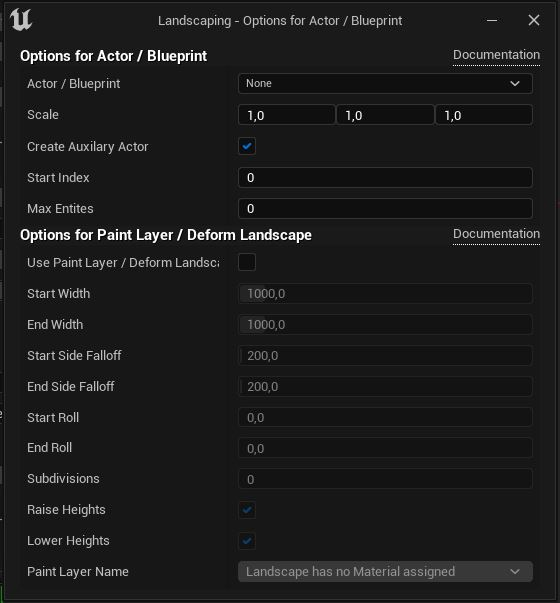
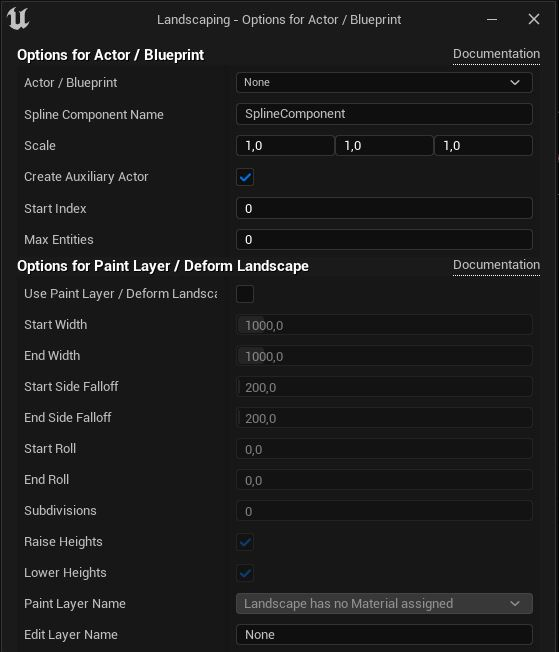
changes for 7.13 and 7.14

Changed region(s): [[0.0, 0.0, 1.0, 1.0], [0.4258, 0.4776, 0.517, 0.6567], [0.4258, 0.6866, 0.4866, 0.7463]]

diff --git a/docs/heights.md b/docs/heights.md
@@ -9,7 +9,7 @@ Making a huge tiled landscape is as easy as making a single landscape.
 > To reset the input simply close the Landscaping tab and open it again.  
 
 In order to create a tiled landscape, you can choose one or multiple files in the file selection dialog.  
-In UE5 it is possible to choose [World Partition](#world-partition) and specify the grid size. (UE4: Depending on the `Max Desired Tile Size`, the tiles for the landscape will be created on the fly.)  
+In UE5 it is possible to choose [World Partition](#world-partition) and specify the grid size to segment a Landscape into LandscapeStreamingProxies. Depending on the `Max Desired Tile Size`, the tiles for the landscape will be created on the fly.  
 
 > A tiled landscape can be created from a single file or from multiple files
 
@@ -48,7 +48,11 @@ Back in Unreal Engine Editor paste the coordinates (Ctrl+V) in the `Corners as B
 
 The info text should now show the new extent of the area. Only this part of the heightdata will be imported.
 
-## Override Z Scale of generated Landscape
+## Location and Scale
+
+### Location
+
+The X and Y Location of the Landscape (first Tile, if multiple tiles are generated). The pivot of a Landscape is on the top-left corner. With `Center` the Landscape is positioned, so that it is centered in the UE coordinate system. If X and Y are set to 0, the Landscape will expand from 0 to the bottom and to the right.
 
 ### High Detail Z Scale
 
@@ -58,21 +62,39 @@ The vertical scale will be calculated automatically to perserve the most detail,
 
 Use this for areas with low altitude difference or when extending or updating the landscape. Defaults to `100`. For understanding the technical reason for this, please consult [Calculating Heightmap Z Scale](https://docs.unrealengine.com/5.1/en-US/landscape-technical-guide-in-unreal-engine/).  
 
-### Import as Mesh
+## Landscape Generation Options
 
-> Only available in Unreal Engine 5  
+### Import as Mesh
 
 Import as Procedural Mesh instead of Landscape (e.g. for a distance mesh). The Procedural Mesh can afterwards converted to a nanite mesh with a button in the details panel of the Procedural Mesh.
 
 ### Force square Landscapes
 
-> Only available in Unreal Engine 5  
+Regardles of the selection, force a square landscape. This enables to export/import weightmaps in the native UE Landscape Edit Mode (e.g. for editing weightmaps in another program) This is not affecting the real world scale (blank areas will appear, but no distortion will happen).
 
-Regardles of the selection, force a square landscape. This enables to export/import weightmaps in the native UE Landscape Edit Mode (e.g. for editing weightmaps in another program)
+### Auto calculate Landscape
 
-### Desired Max Landscape Size
+Calculate Sections and Components of the Landscape to import automatically given the extents of the input file. Uncheck to give custom specs (see properties below). This is not affecting the real world scale.
 
-The maximum size of a created Landscape of World Partition or single Landscape imports in meter. If the size of a single Landscape exceeds this size, it will be split, and multiple Landscape Actors are created in the level. This is the size of the resulting Landscape in Unreal Engine, not the max size or resolution of a source file (like GeoTiff, etc.). E.g. a value of 32768 will import landscapes with maximum 32 km length or width. 32768 will need at least 128 GB of RAM.
+### Section Size
+
+Please see [Landscape Technical Guide](https://docs.unrealengine.com/5.2/en-US/landscape-technical-guide-in-unreal-engine/)
+
+### Sections per Component
+
+Please see [Landscape Technical Guide](https://docs.unrealengine.com/5.2/en-US/landscape-technical-guide-in-unreal-engine/)
+
+### Number of Components
+
+Please see [Landscape Technical Guide](https://docs.unrealengine.com/5.2/en-US/landscape-technical-guide-in-unreal-engine/)
+
+### Landscape Resolution
+
+Shows the expected Landscape Resolution in vertices
+
+### Desired Max Tile Size
+
+The maximum size of a created Landscape of World Partition or single Landscape imports in meter (Landscape or Mesh). If the size of a single Landscape exceeds this size, it will be split, and multiple Landscape Actors are created in the level. This is the size of the resulting Landscape in Unreal Engine, not the max size or resolution of a source file (like GeoTiff, etc.). E.g. a value of 32768 will import landscapes with maximum 32 km length or width. 32768 will need at least 128 GB of RAM.
 
 > `Desired Max Landscape Size` defaults to `8192` meter.  
 > Edit Layers can only be activated if the value is `16384` or below.
@@ -80,8 +102,6 @@ The maximum size of a created Landscape of World Partition or single Landscape i
 Tip: you can type aritmetic expressions into the input box like `8192*2` or `8192/2`
 
 ### World Partition Grid Size
-
-> Only available in Unreal Engine 5  
 
 Grid size for the World Partition Landscape.  
 
@@ -93,21 +113,17 @@ Set the Zoom Level for Mapbox heightdata imports (see [Mapbox Documentation](map
 
 ### Use native Raster Pixel Size
 
-Use the pixel size from the imported heightmap
+Use the pixel size from the imported heightmap. Uncheck to use custom Raster Pixel Size below.
 
 ### Custom Raster Pixel Size
 
-Set a custom pixel size for the imported heightmap. The heightmap will be resampled to this pixel size (meter/pixel) before import.
+Set a custom pixel size for the imported heightmap. The heightmap will be resampled to this pixel size (meter/pixel) before import. Lower values will result in more pixel per meter (more vertices in a Landscape/Mesh).
 
 ### Resample to First Tile
-
-> Only available in Unreal Engine 5
 
 Will import all imported DTM files (or Mapbox height data) to the resolution of the first imported DTM of the level enabling seamless worlds with no gaps. This might lead to up- or downsampling depending on the first imported DTM.  
 
 ### Smooth Steps
-
-> Only available in Unreal Engine 5
 
 Apply gaussian blur on the height data before importing the landscape. This will smooth raster data with low resolution.  
 0 means, no smoothing will happen.
@@ -115,13 +131,10 @@ For Mapbox imports the recommended value is 1 for mountain terrain, and 2 for fl
 
 ## Smooth Edges
 
-> Only available in Unreal Engine 5
-
 When creating multiple Landscapes from DTM files (or Mapbox) in a level, this __should be disabled__ to have seamless connections on the edges of each Landscape. For a single Landscape this can be enabled savely.  
 
 ## Landscape Update Options
 
-> Only available in Unreal Engine 5  
 > This options is only meaningful, if you try to fill missing data with mapbox, otherwise a faster way to fill missing data is just selecting (`Select DTM Files` button) all heightmap data (geotiff-, ascii- or hgt-files, also mixed is possible) and let them merge on import automatically.
 
 ### Update Landscape

diff --git a/docs/props.md b/docs/props.md
@@ -25,6 +25,7 @@ Depending on what is selected in the dropdown, there are 3 different dialogs, bu
     ![Landscaping Splinemesh Options](_media/ue_landscaping_splinemesh_options.jpg)  
     b. __Actor__  
     Select a `Blueprint` or `Actor`. The Blueprint has to have a spline component attached if LINESTRINGS or POLYGONS are processed, or must implement [LandscapingVectorInterface](landscapingvectorinterface.md) - if only POINTS are processed, every actor or blueprint can be selected here.  
+    `Spline Component Name` - set a custom name of the Spline Component of the Blueprint to perform post edit changes  
     `Scale` can be used to set the scale of the spawned Actor / Blueprint  
     `Create Auxiliary Actor` - whether to create an actor for every spawned Actor / Blueprint with landscape manipulation options  
     `Start Index` can be used to create shapes of the shapefile in chunks - this can be repeated multiple times see also `Max Entities`  

diff --git a/docs/changelog.md b/docs/changelog.md
@@ -4,6 +4,18 @@ Changelog for the documentation see: [The Landscaping Docs on Github](https://gi
 
 > Since Version 5.0 all changes only apply to UE5
 
+## Version 7.14
+
+- Fix crash if spline component of a spline is named differently than Spline Component
+- Add `Spline Component Name` field to `Options for Actor / Blueprint` to provide a custom Spline Component Name
+- Show selected tiles on the bottom of the tab which indicate on how many tiles operations will be performed
+- Move tips sections to the bottom of the tab
+
+## Version 7.13
+
+- Set Location and Scale in `DTM Import Options` dialog  
+- Choose Sections and Components of a Landscape in `DTM Import Options` dialog
+
 ## Version 7.12
 
 - Faster import of satellite data

diff --git a/docs/landscapingvectorinterface.md b/docs/landscapingvectorinterface.md
@@ -35,6 +35,8 @@ Attributes of a shapefile can be accessed through the `LandscapingVectorInterfac
 
 ## Snap to Floor
 
+> The blueprint has to have `EditorUtilityActor` as Parent Class (`Class Settings -> Parent Class`)
+
 A blueprint utility function `Snap to floor` is usefull to snap the vector data points to the surface of the landscape.  
 The offset can be positive or negative. It determines the vertical offset from the surface.  
 
